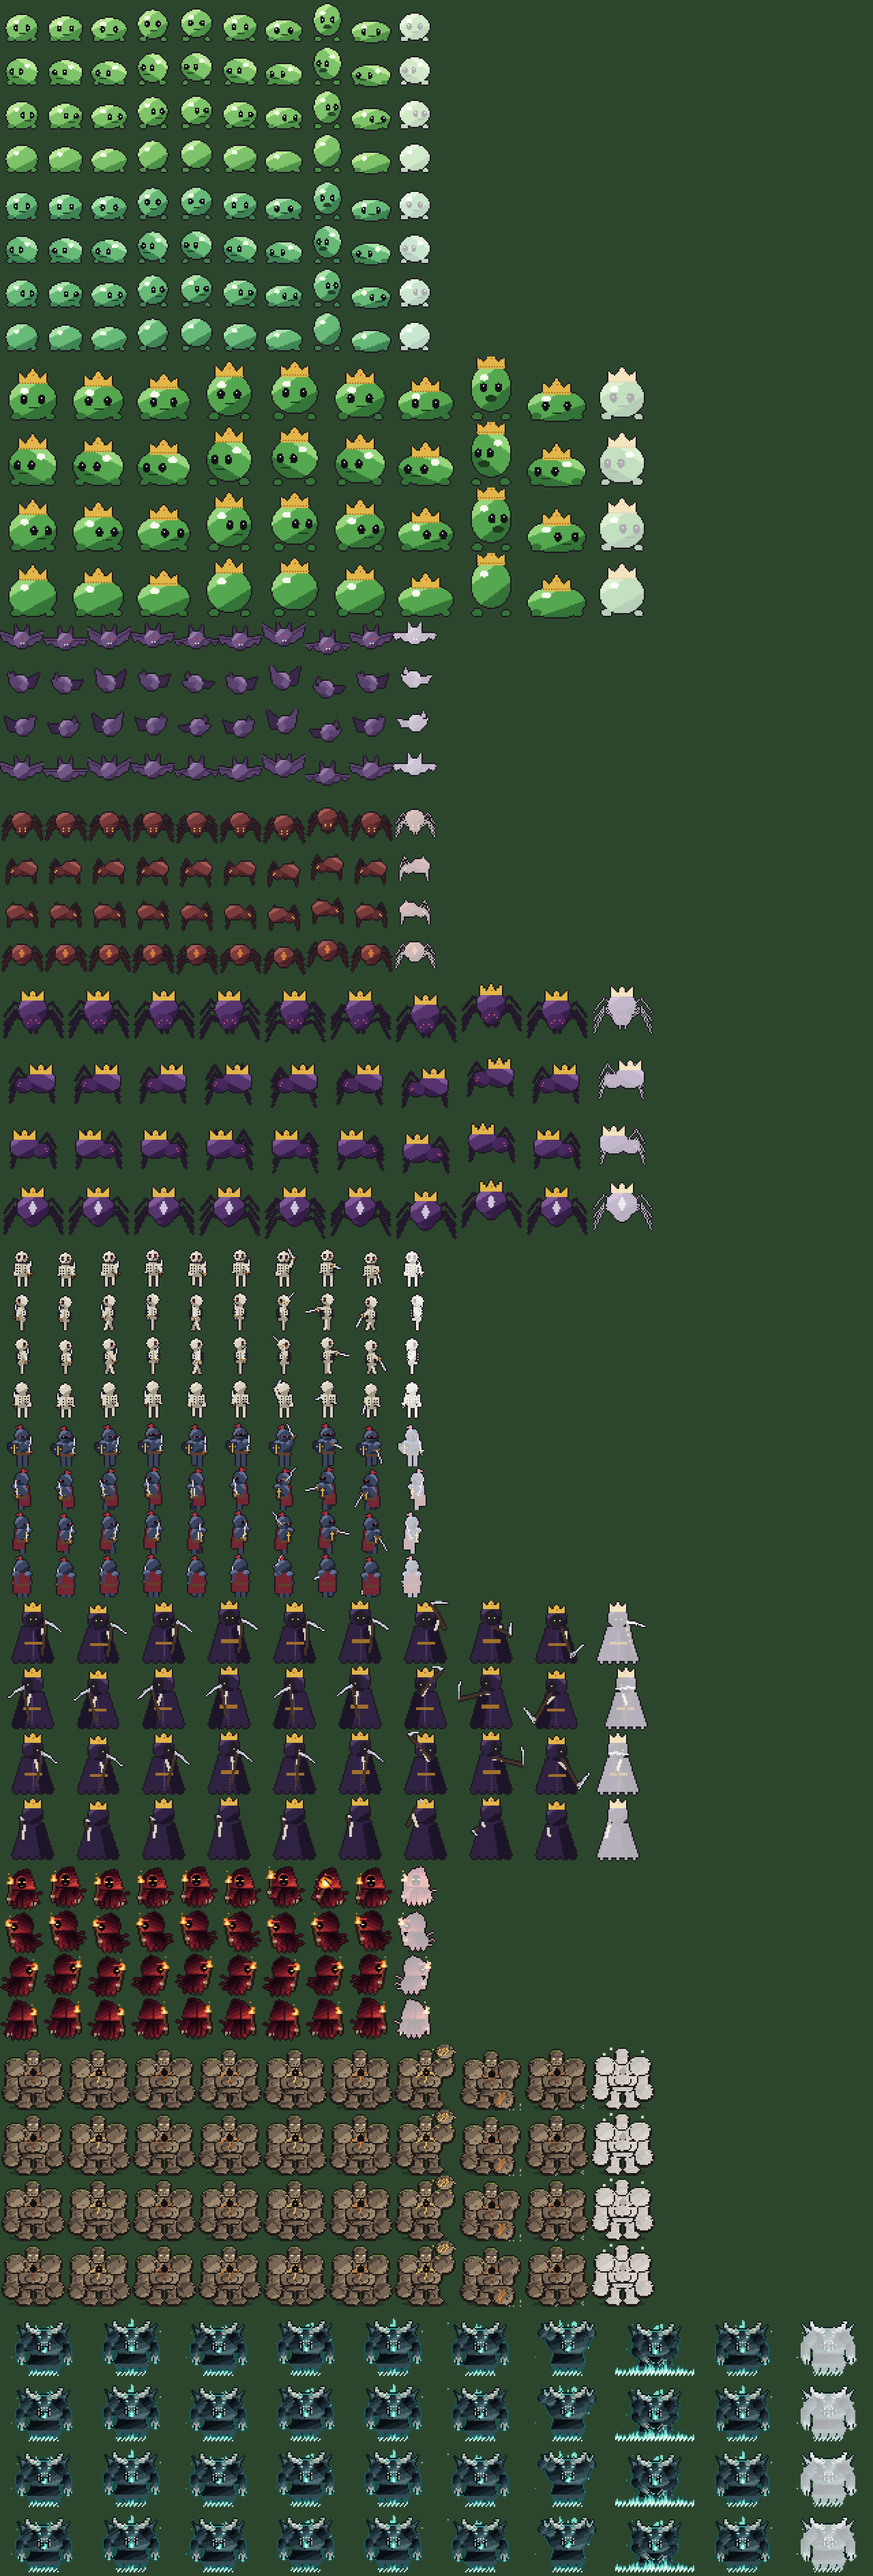
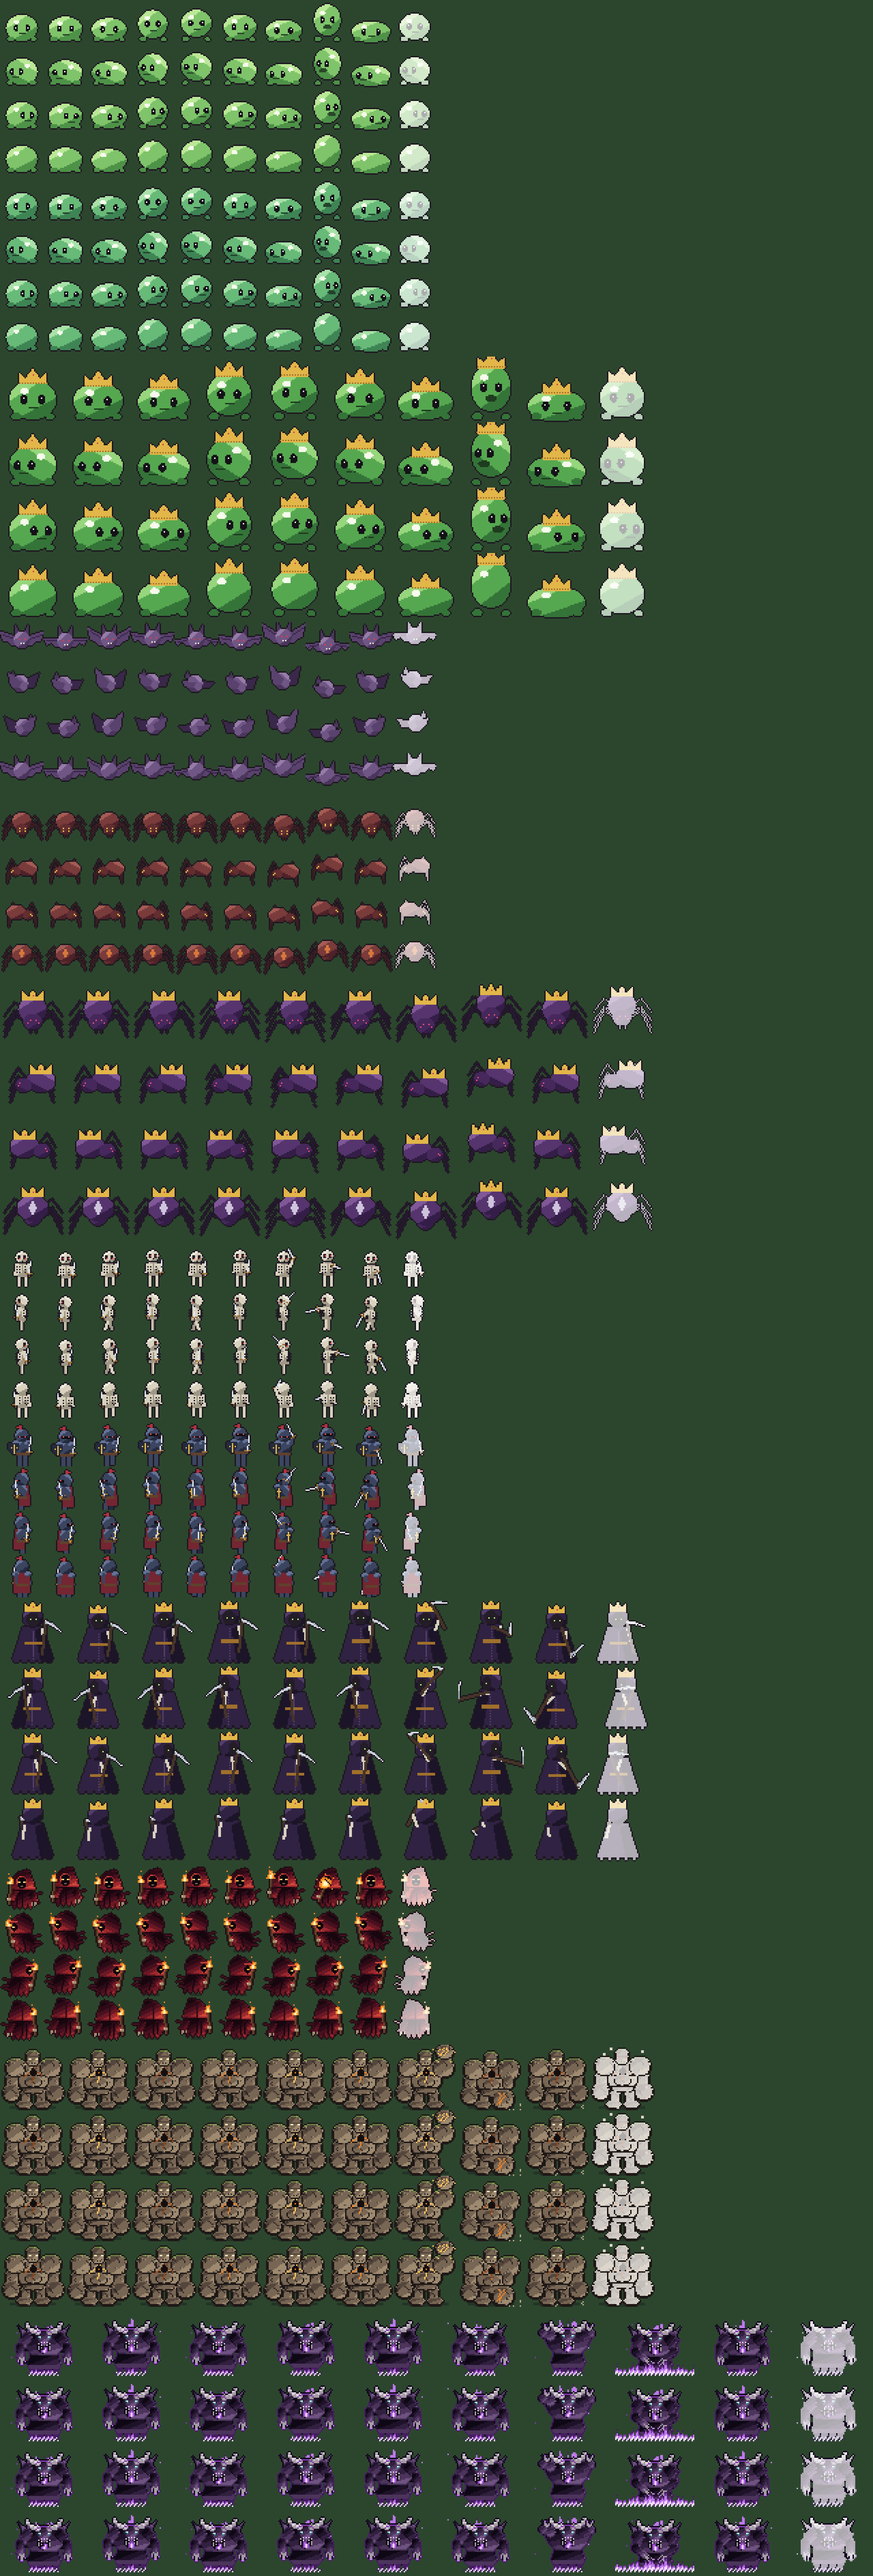
Rey sin Charca morado y como parte dura del combate final
- Sprite y color de turnos en morado, como el Señor de la Cripta; solo los ojos siguen verde azulado
- El Señor despierta a sus sombras al 80 % y se transforma al 60 %
- Rey: 140 PV, defensa 4, magia 20, Niebla de agua muerta más fuerte y más frecuente
- Reequilibrado: ronin +6 PV por nivel, recuperación 0,555 en Normal

diff --git a/tests/jefes.test.ts b/tests/jefes.test.ts
@@ -82,10 +82,12 @@ describe('jefes', () => {
   test('el Señor de la Cripta pasa por sus fases y al final se transforma en el Rey sin Charca', () => {
     const c = contra('senor_cripta');
     const senor = c.enemigos[0]!;
-    senor.pv = Math.floor(senor.pvMax * 0.66) + 10; // tras el golpe, por debajo del 66 %
+    const [furia, transformacion] = MONSTRUOS.senor_cripta!.fases!;
+    // Un poco por encima de cada umbral: el golpe de la ronin (30 − 8) lo deja por debajo.
+    senor.pv = Math.floor(senor.pvMax * furia!.pvMenorQue) + 10;
     atacar(c);
     expect(senor.fase).toBe(1);
-    senor.pv = Math.floor(senor.pvMax * 0.33) + 10; // tras el golpe, por debajo del 33 %
+    senor.pv = Math.floor(senor.pvMax * transformacion!.pvMenorQue) + 10;
     const eventos = atacar(c);
     expect(senor.fase).toBe(2);
     expect(eventos).toContainEqual(
@@ -101,7 +103,8 @@ describe('jefes', () => {
   test('un golpe que lo deja a 0 desde arriba no se salta la transformación', () => {
     const c = contra('senor_cripta');
     const senor = c.enemigos[0]!;
-    senor.pv = Math.floor(senor.pvMax * 0.66) + 5; // por encima de las dos fases
+    // Por encima de las dos fases.
+    senor.pv = Math.floor(senor.pvMax * MONSTRUOS.senor_cripta!.fases![0]!.pvMenorQue) + 5;
     c.heroina.ataque = 999; // un solo golpe lo deja a 0
     const eventos = atacar(c);
     // Las fases intermedias se saltan, pero se transforma en vez de morir.

diff --git a/tools/generadores/monstruos/rey_sin_charca.py b/tools/generadores/monstruos/rey_sin_charca.py
@@ -1,7 +1,8 @@
 """Rey sin Charca (64x48): la forma en que se transforma el Señor de la Cripta en su última fase,
 tras siglos con el poder que bebió. Cuerpo de obsidiana encorvado, cuernos de hueso, costillar
-abierto con un corazón de fuego de agua muerta, melena de llamas y falda de humo ardiente.
-Su fuego es verde azulado, no morado: el morado es la luz de luna de la maga, lo único que teme.
+abierto con un corazón de fuego, melena de llamas y falda de humo ardiente.
+Morado como el Señor de la Cripta del que sale (antes era verde azulado y no parecía el mismo jefe);
+solo los ojos guardan el verde azulado del agua muerta que se bebió.
 
 Solo sale en combate (de frente, ×2). Como los otros jefes, cabe en 48 de alto con los pies en 46
 y no sube más de ~42 px sobre ellos: por encima van su nombre y la barra de turnos. Se diseña en
@@ -13,11 +14,12 @@ from dibujo import tile, put, line, rect, outline, poly_mask, ell_mask, shade, l
 S = 64
 H = 48
 K = 0.72
-O = [(8, 14, 18), (18, 30, 36), (32, 50, 58), (52, 76, 84), (82, 110, 116)]  # obsidiana fría
-BONE = [(104, 112, 108), (156, 166, 158), (210, 220, 210)]
-FIRE = [(26, 92, 98), (46, 150, 146), (124, 222, 204), (226, 255, 244)]  # agua muerta
-FIRE_DIM = [(18, 58, 64), (30, 96, 96), (70, 150, 140), (150, 200, 190)]
-OUT = (6, 26, 30)
+O = [(14, 8, 20), (30, 18, 40), (50, 32, 64), (76, 52, 92), (110, 82, 128)]  # obsidiana morada
+BONE = [(112, 104, 114), (166, 156, 166), (220, 210, 220)]
+FIRE = [(70, 28, 98), (126, 56, 170), (190, 120, 236), (244, 222, 255)]  # fuego morado
+FIRE_DIM = [(44, 20, 62), (80, 40, 110), (130, 90, 170), (200, 170, 230)]
+EYES = [(46, 150, 146), (124, 222, 204), (226, 255, 244)]  # el agua muerta que se bebió
+OUT = (16, 6, 26)
 
 
 def R(v):
@@ -123,7 +125,7 @@ def draw(anim, f):
     # cara: cuencas que arden y colmillos
     ex0, ey = round(hc[0]), round(hc[1])
     for ex, d in ((ex0 - 3, -1), (ex0 + 3, 1)):
-        put(t, ex, ey, fire[3]); put(t, ex + d, ey, fire[2]); put(t, ex, ey + 1, fire[1])
+        put(t, ex, ey, EYES[2]); put(t, ex + d, ey, EYES[1]); put(t, ex, ey + 1, EYES[0])
     for i, x in enumerate(range(ex0 - 2, ex0 + 3)):
         put(t, x, ey + 4, fire[1] if i % 2 else BONE[2])
     # luz del fuego sobre la cabeza y en los bordes del cuerpo
